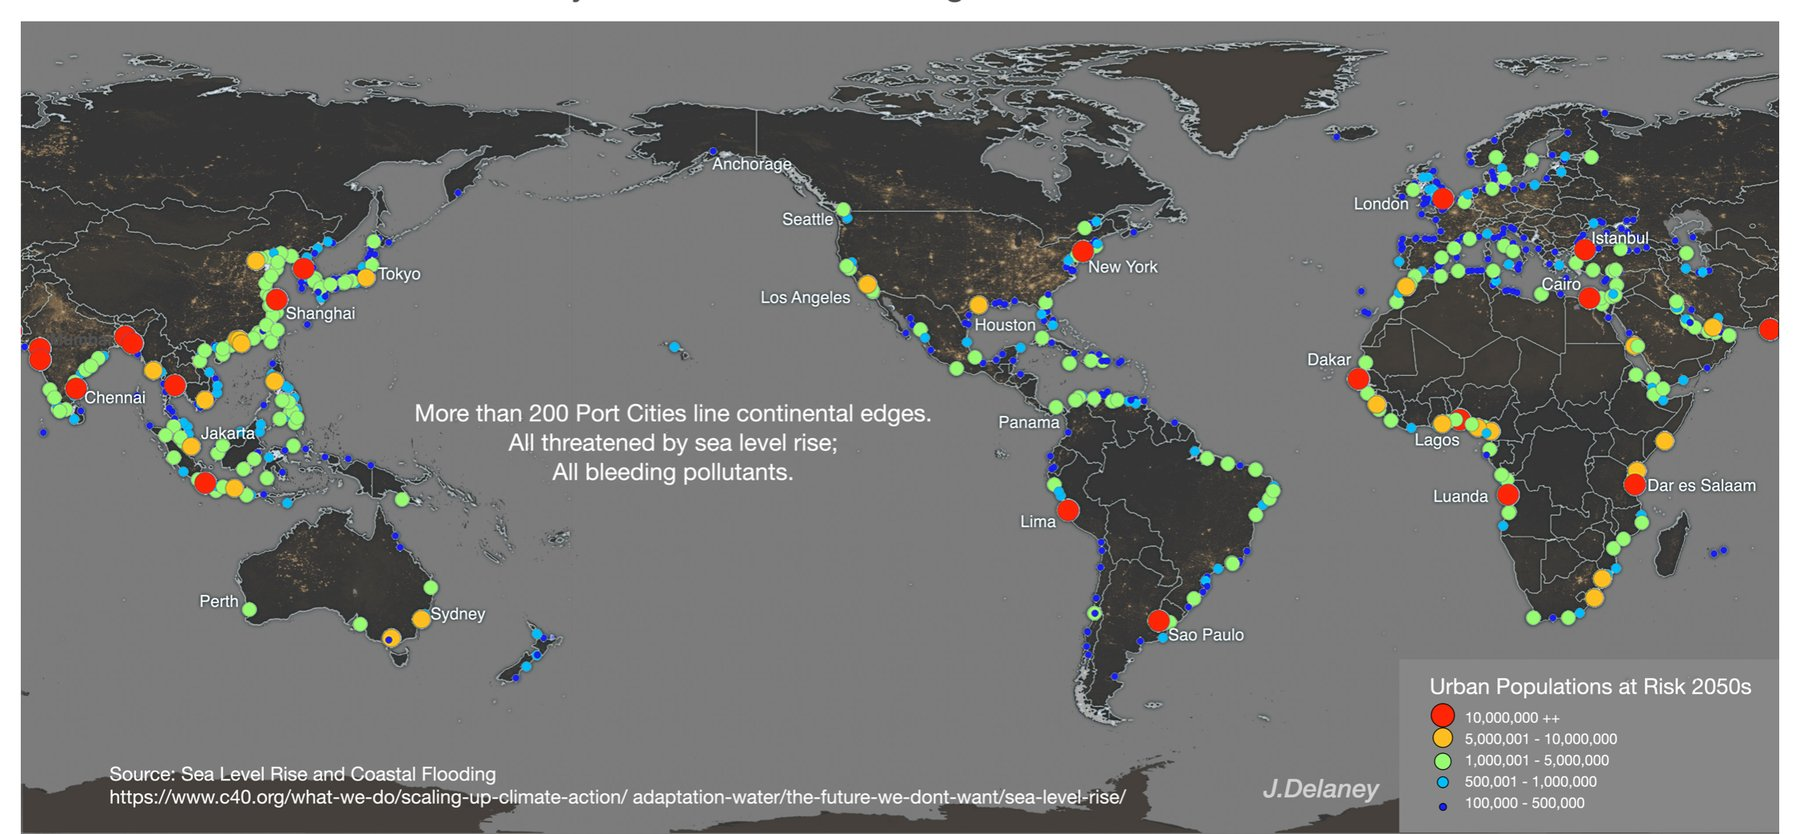
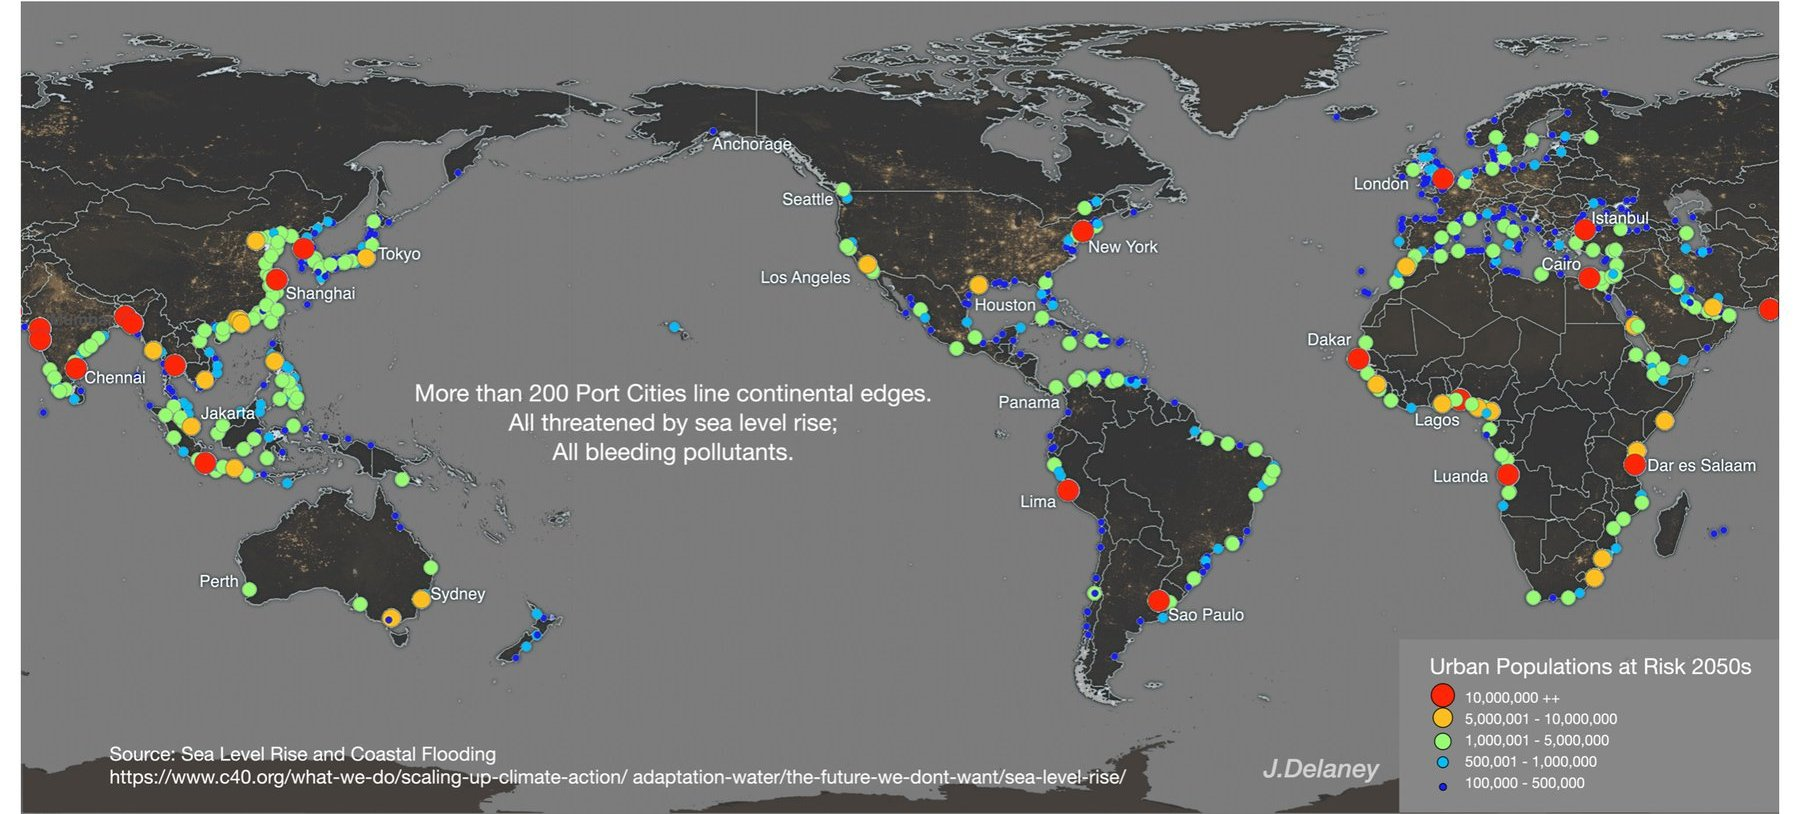
Site: center enlarged figures, larger text, trim the world map's edge
The figure lightbox sat in the top-left corner because the global margin
reset removed the dialog's auto margins; it is centered again, and the image
is capped so image and caption fit without scrolling. The chart theme sets
text about 6 percent larger, since IBM Plex Sans runs smaller than Inter.
The world map loses a 20 px strip of cut-off lettering along its top edge,
left over from extraction.

diff --git a/assets/css/site.css b/assets/css/site.css
@@ -420,9 +420,9 @@ figcaption .credit::before { content: '· '; }
 .gallery .fig-btn img { aspect-ratio: 16 / 10; object-fit: cover; }
 
 /* ---------- lightbox ---------- */
-.lightbox { border: 0; border-radius: var(--radius); padding: 1rem; max-width: min(1100px, 94vw); background: var(--paper); box-shadow: var(--shadow-lg); }
+.lightbox { margin: auto; border: 0; border-radius: var(--radius); padding: 1rem; max-width: min(1100px, 94vw); background: var(--paper); box-shadow: var(--shadow-lg); }
 .lightbox::backdrop { background: rgba(8, 26, 46, 0.78); backdrop-filter: blur(4px); }
-.lightbox img { max-height: 78vh; width: auto; max-width: 100%; margin: 0 auto; border-radius: var(--radius-sm); }
+.lightbox img { max-height: calc(100vh - 13rem); width: auto; max-width: 100%; margin: 0 auto; border-radius: var(--radius-sm); }
 .lightbox .lb-caption { margin-top: 0.8rem; font-size: 0.95rem; }
 .lightbox .lb-credit { font-size: 0.8rem; color: var(--stone); }
 .lb-close { position: absolute; top: 0.6rem; right: 0.6rem; width: 38px; height: 38px; border-radius: 50%; background: var(--fog); display: flex; align-items: center; justify-content: center; }

diff --git a/assets/css/theme-chart.css b/assets/css/theme-chart.css
@@ -32,6 +32,10 @@
 }
 
 /* ---------- type ---------- */
+/* Plex Sans has a smaller x-height than Inter, so the base size goes up a step. */
+html { font-size: 106.25%; }
+body { font-size: 17.5px; }
+@media (max-width: 520px) { body { font-size: 17px; } }
 h1, h2, h3, h4, .num, .brand, .tab-theme, .points b, .logo-text, .monogram {
   font-stretch: 87.5%; letter-spacing: 0; text-wrap: balance;
 }
